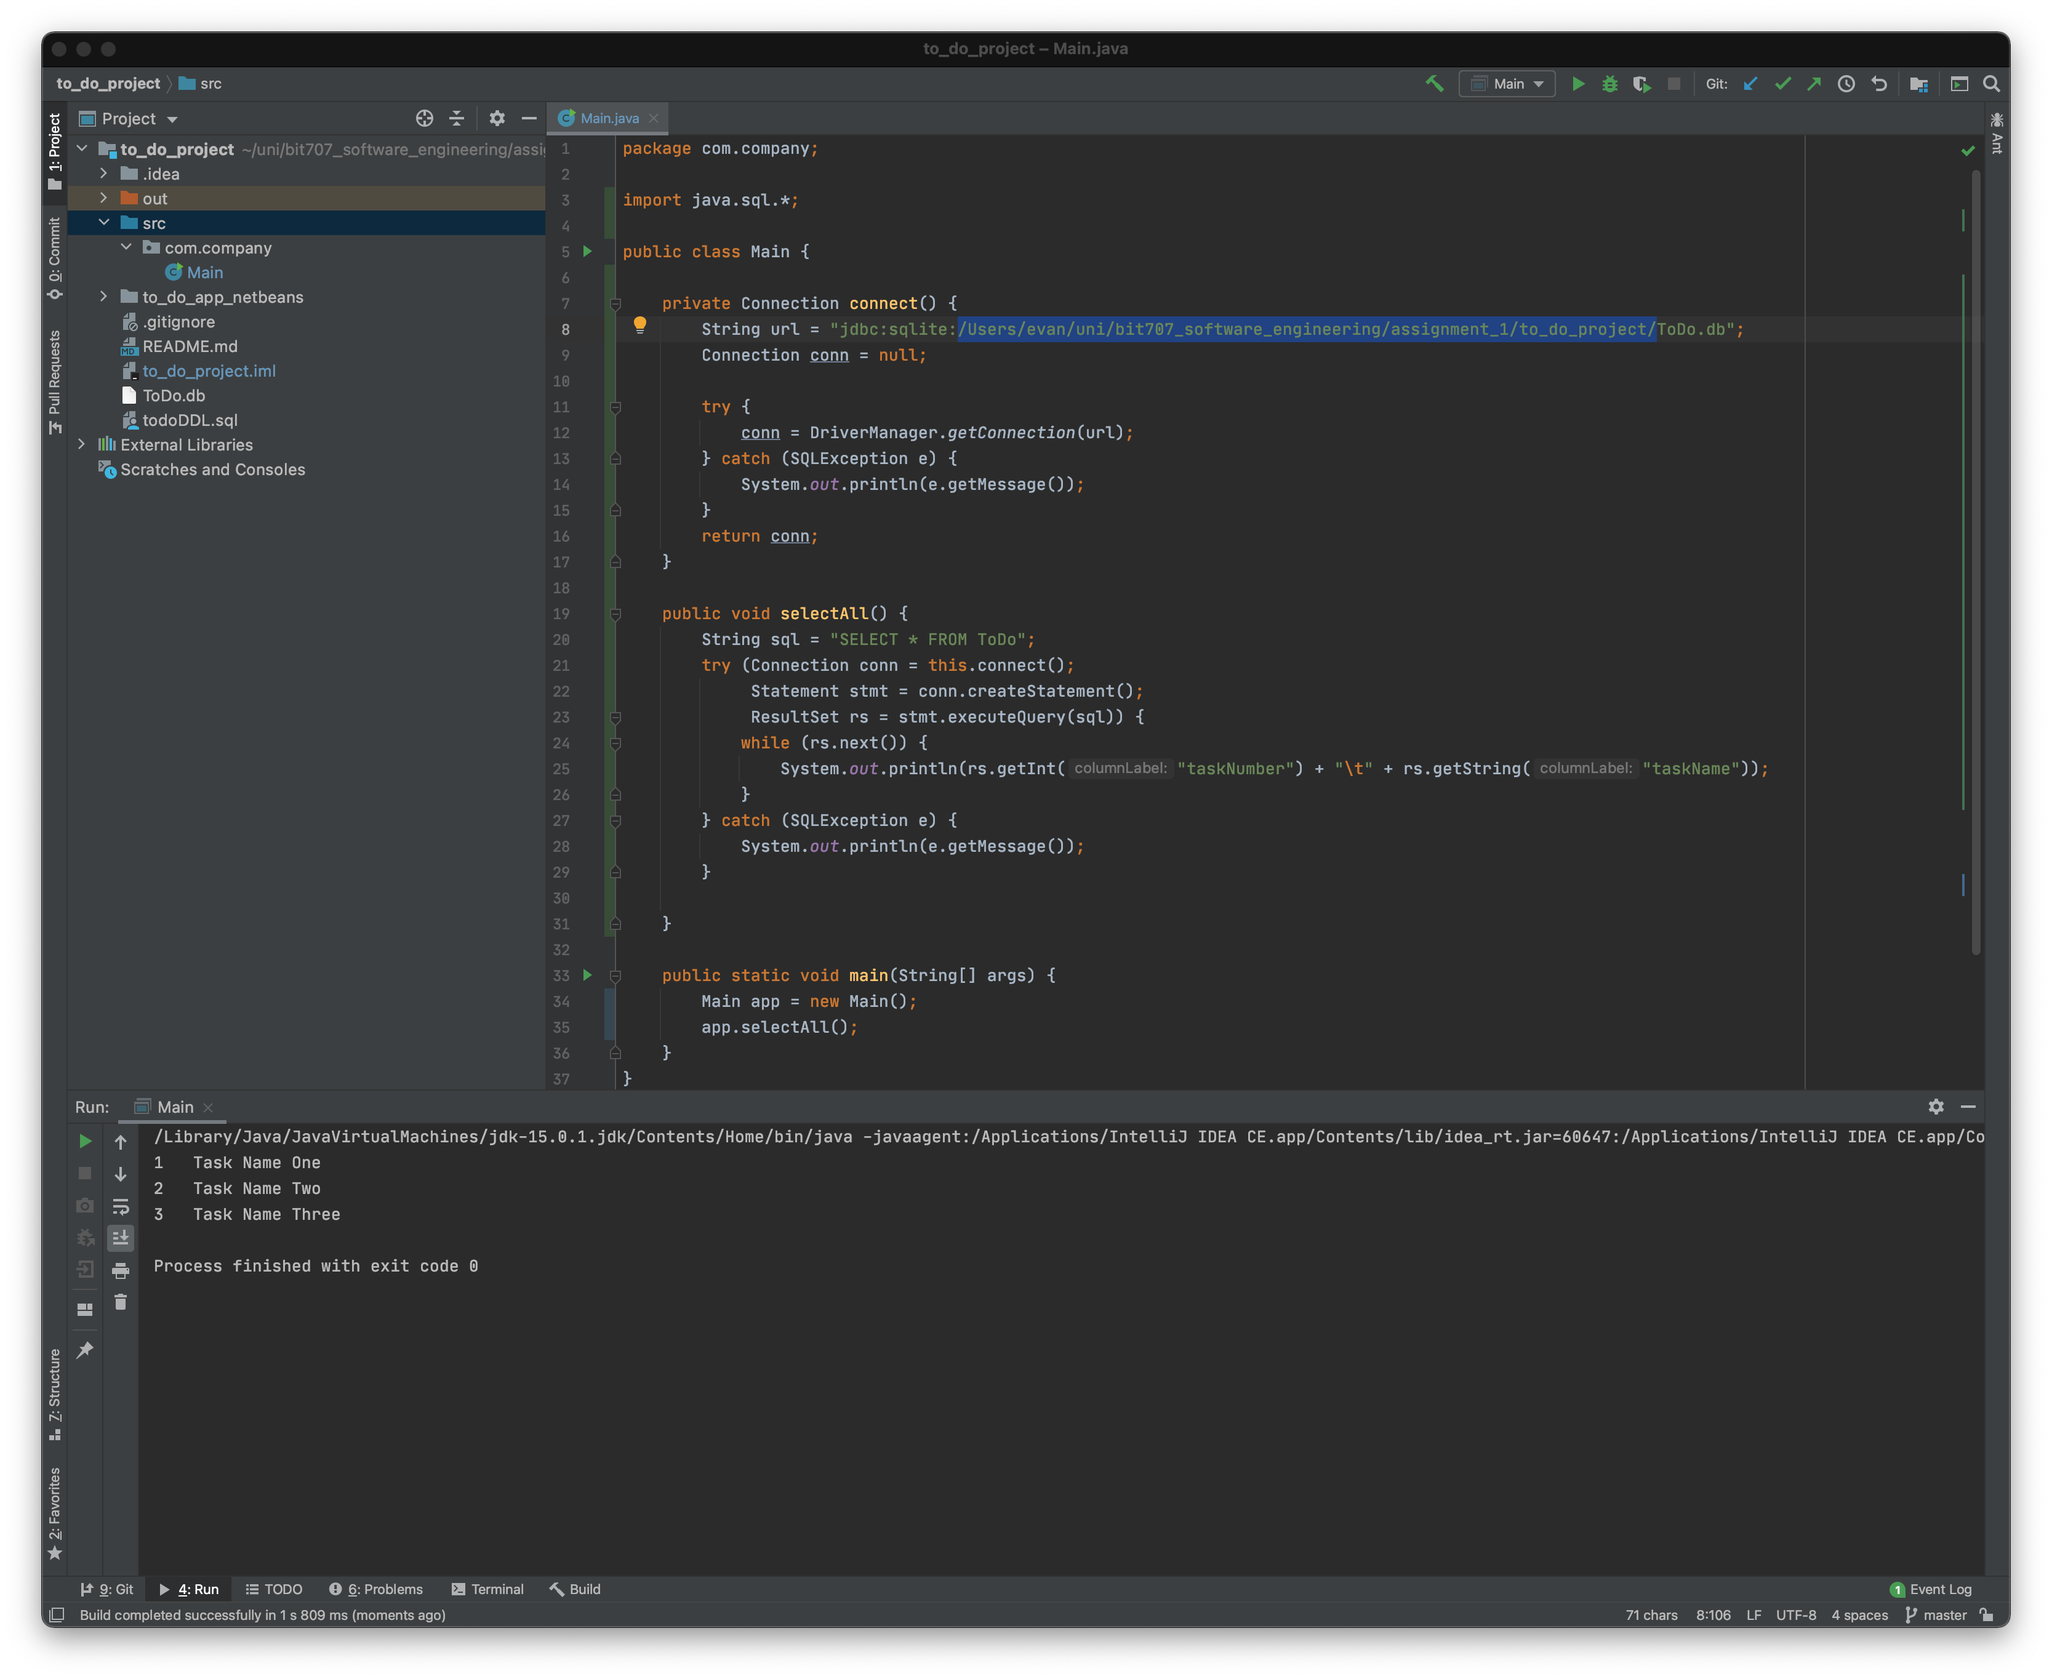
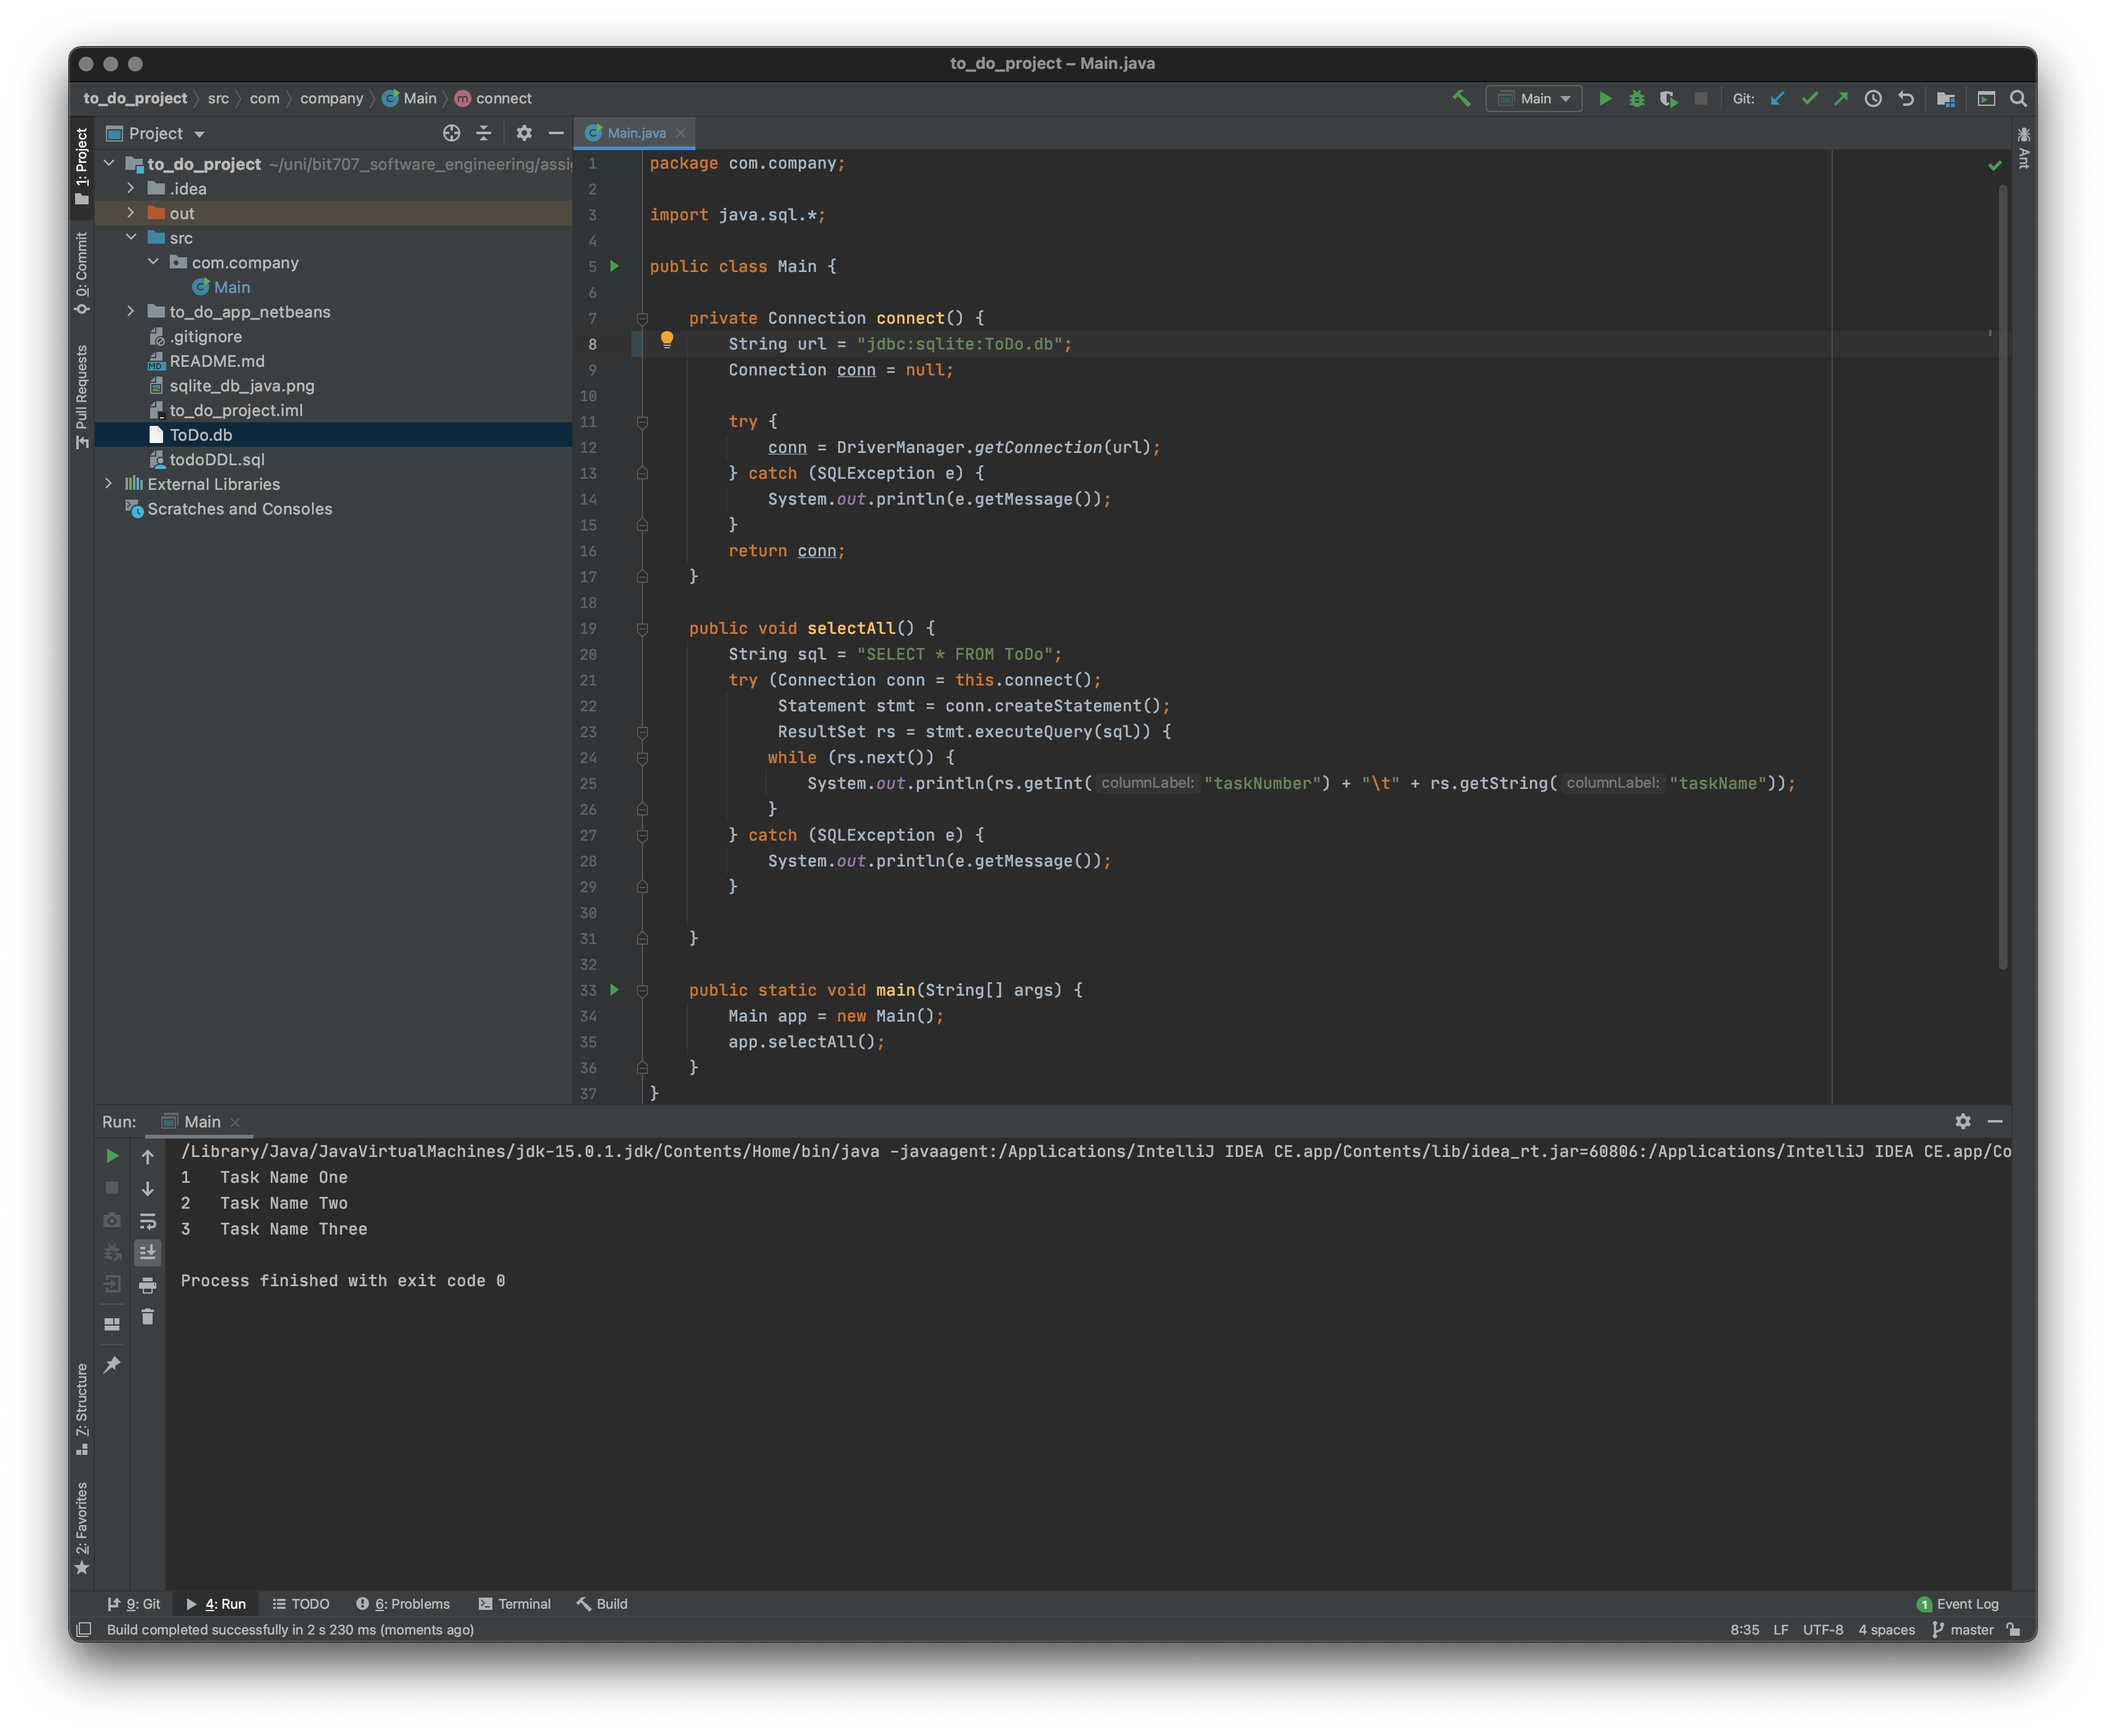
README.md

Changed region(s): [[0.0, 0.0, 0.9982, 0.9971], [0.3431, 0.2493, 0.6239, 0.5297], [0.6863, 0.4362, 0.8422, 0.4674]]

diff --git a/src/com/company/Main.java b/src/com/company/Main.java
@@ -5,7 +5,7 @@ import java.sql.*;
 public class Main {
 
     private Connection connect() {
-        String url = "jdbc:sqlite:/Users/evan/uni/bit707_software_engineering/assignment_1/to_do_project/ToDo.db";
+        String url = "jdbc:sqlite:ToDo.db";
         Connection conn = null;
 
         try {

diff --git a/README.md b/README.md
@@ -1,0 +1,7 @@
+# SQLite To Do App
+
+See output example in sqlite_db_java.png screenshot
+
+sqlite db stored in ToDo.db
+
+Evan Amezcua // 5007531
